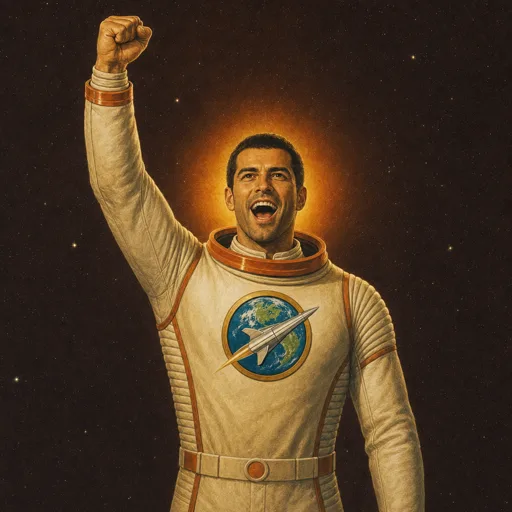
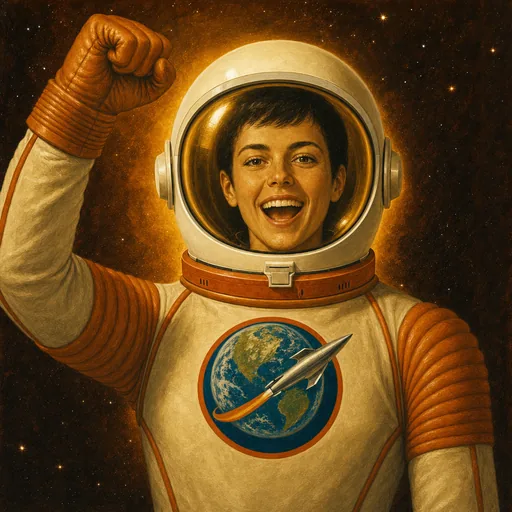
feat(web): helmeted captain, portraits clear of the grids, score line beneath

diff --git a/apps/web/src/styles.css b/apps/web/src/styles.css
@@ -901,16 +901,14 @@ button.primary {
   }
 }
 
-/* Whoever holds the guns, painted. Sits over the top-right of the grids. */
-.boards {
-  position: relative;
+/* Whoever holds the guns, painted. Sits clear above the grids' right corner. */
+.portrait-row {
+  display: flex;
+  justify-content: flex-end;
+  margin-bottom: 6px;
 }
 
 .portrait {
-  position: absolute;
-  top: -14px;
-  right: -6px;
-  z-index: 4;
   margin: 0;
   width: 132px;
   text-align: center;
@@ -960,19 +958,16 @@ button.primary {
   }
 }
 
-/* Score strip along the foot of every screen. */
+/* Score line, under the grids. */
 .scoreline {
-  position: fixed;
-  left: 0;
-  right: 0;
-  bottom: 0;
-  z-index: 20;
   display: flex;
   justify-content: center;
   gap: 40px;
-  padding: 8px 16px;
+  margin-top: 18px;
+  padding: 10px 16px;
   background: linear-gradient(to top, rgba(12, 6, 3, 0.96), rgba(74, 37, 17, 0.9));
   border-top: 3px solid var(--orange);
+  border-bottom: 3px solid var(--orange);
   font-family: var(--display);
   letter-spacing: 0.14em;
   text-transform: uppercase;

diff --git a/apps/web/src/App.tsx b/apps/web/src/App.tsx
@@ -249,8 +249,11 @@ function Battle({ match, busy, starfleet, captain, reaction, onFire, onResign, o
         </section>
       ) : null}
 
-      <div className="boards">
+      <div className="portrait-row">
         <Portrait turn={match.turn} reaction={reaction} captain={captain} />
+      </div>
+
+      <div className="boards">
         <Board
           title="Invasion Grid"
           subtitle={finished ? 'Invader deployment revealed.' : 'Choose a cell to fire on.'}
